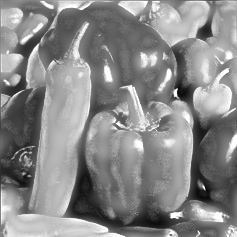
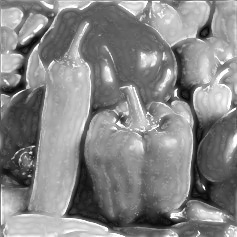
修正

diff --git a/HW1/app.py b/HW1/app.py
@@ -1,7 +1,10 @@
 import sys
 import cv2
 import numpy as np
+import matplotlib
+matplotlib.use('Agg')
 import matplotlib.pyplot as plt
+
 import os
 
 def show_images(images, titles, cmap='gray', save_prefix=None):
@@ -79,8 +82,8 @@ if __name__ == '__main__':
         # 功能2: 對 Figure2 進行銳化
         img2 = cv2.imread('Figure2.jpg', cv2.IMREAD_GRAYSCALE)
         # (a) Sobel
-        sobel_x = cv2.Sobel(img2, cv2.CV_64F, 1, 0, ksize=3)
-        sobel_y = cv2.Sobel(img2, cv2.CV_64F, 0, 1, ksize=3)
+        sobel_x = cv2.Sobel(img2, cv2.CV_64F, 1, 0, ksize=3)#水平方向
+        sobel_y = cv2.Sobel(img2, cv2.CV_64F, 0, 1, ksize=3)#垂直方向
         sobel_mag = cv2.magnitude(sobel_x, sobel_y)
         sobel_mag = np.uint8(np.clip(sobel_mag,0,255))
         sharpened_sobel = cv2.addWeighted(img2, 1.0, sobel_mag, 0.5, 0)
@@ -91,7 +94,7 @@ if __name__ == '__main__':
         rows, cols = img2.shape
         crow, ccol = rows//2, cols//2
         mask = np.ones((rows, cols, 2), np.float32)
-        r = 10  # 半徑
+        r = 20 # 半徑
         y, x = np.ogrid[:rows, :cols]
         dist2 = (x - ccol)**2 + (y - crow)**2
 
@@ -103,7 +106,7 @@ if __name__ == '__main__':
         img_back = cv2.magnitude(img_back[:,:,0], img_back[:,:,1])
         img_back = cv2.normalize(img_back, None, 0, 255, cv2.NORM_MINMAX).astype(np.uint8)
 
-        sharpened_fourier = cv2.addWeighted(img2, 1.0, img_back, 0.5, 0)
+        sharpened_fourier = cv2.addWeighted(img2, 1.0, img_back, 0.7, 0)
 
         # 顯示及儲存結果
         show_images(
@@ -116,7 +119,7 @@ if __name__ == '__main__':
     elif func_num == '3':
         # 功能3: 設計3x3高斯濾波器，對 Figure1 進行低通濾波
         img1 = cv2.imread('Figure1.jpg', cv2.IMREAD_GRAYSCALE)
-        gaussian_3x3 = gaussian_kernel(10, sigma=1)
+        gaussian_3x3 = gaussian_kernel(3, sigma=1)
         gaussian_filtered = cv2.filter2D(img1, -1, gaussian_3x3)
 
         show_images(

diff --git a/HW1/README.MD b/HW1/README.MD
@@ -1,0 +1,9 @@
+1. 執行python
+
+   ```bash
+   python app.py x
+   ```
+
+
+   x=1~4 分別對應四個題目
+   輸出都會在output裡面
